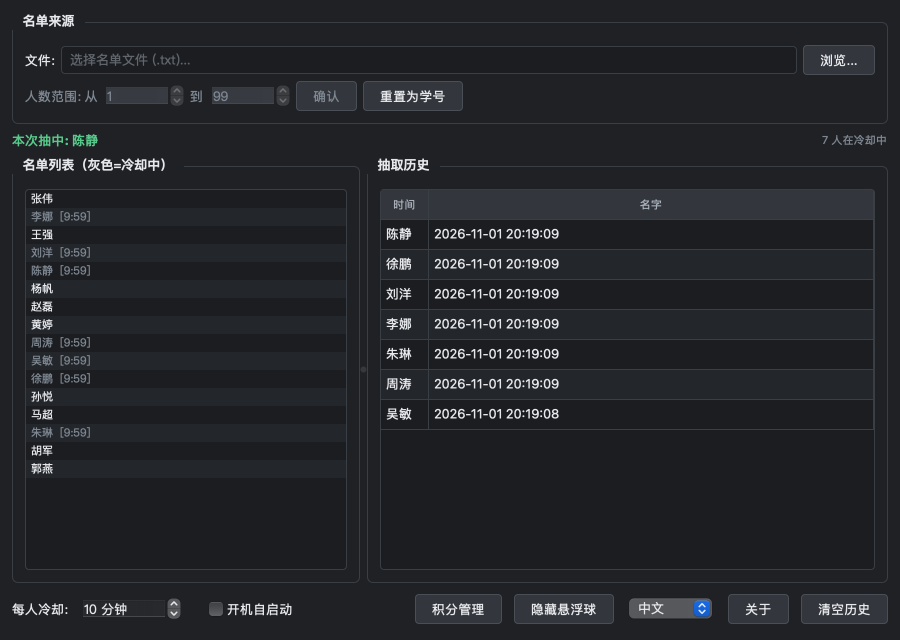
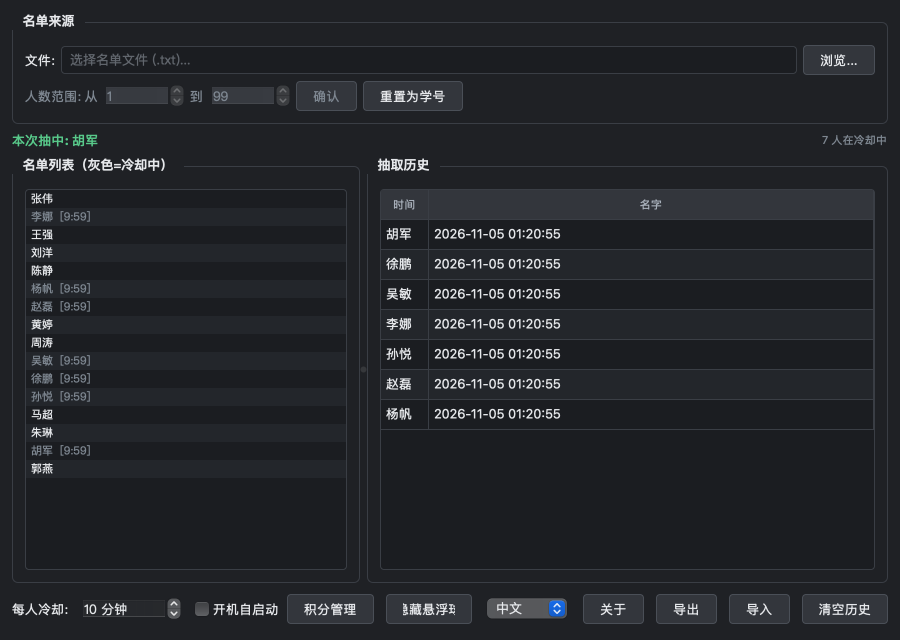
docs: export/import, moving machines, and regenerated screenshots
README（中英对称，51 个小节）
- 核心特点里把「积分防篡改」更新为签名事件链 + 七层检查
- 积分小节补上底栏「导出 / 导入」
- 新增「换电脑 / 重装系统」：旧机导出 → 新机导入 → 确认信任；
  并说明 Inno 安装包升级不经过导出导入，Data/ 原地保留

截图
- 底栏多了导出/导入按钮，四个变体（zh/en × light/dark）全部重跑
- 关于窗口、操作日志、管理面板等一并更新

校验：README 无失效链接，19 张引用图片全部存在；18 项测试通过。

diff --git a/README.md b/README.md
@@ -85,6 +85,23 @@
 
 ![结果弹窗](docs/images/draw-popup.png)
 
+### 换电脑 / 重装系统
+
+分数绑在**机器 + 用户目录**上（密钥由机器 UUID 与 `HOME` 派生），
+换机器或换 Windows 用户后，旧链在本机解不开。这时用导出/导入：
+
+```text
+旧机器：管理面板底栏「导出」→ 得到一个 JSON（组名、分数、抽取次数）
+新机器：底栏「导入」→ 选择文件 → 确认「我信任这份数据」
+```
+
+- 导出的 JSON 是**明文**，可以直接打开核对，也可以手工改；
+- 导入会先弹确认框，只有点「我信任这份数据」才生效，并写进操作日志；
+- 导入后的数据同样在签名链里，之后的记录从这条 event 开始累计。
+
+> **Inno 安装包升级不需要导出导入**：安装程序只替换 `_internal/` 与 `native/`，
+> `Data/`、`config.dat`、`points_log.dat` 原地保留，密钥不变，链照常验证通过。
+
 ### 隐私与合规
 
 **本程序不上传任何数据。** 只有两处会发起网络请求，都是只读查询：
@@ -191,7 +208,7 @@ push 后 CI 构建 → 成功后发版到 `V{版本号}`。
 | **无需退出课件** | 悬浮球强制置顶（Windows 用 `SetWindowPos(HWND_TOPMOST)`；macOS 设置 NSWindow 层级与 Space 行为），可覆盖在 PPT 之上 |
 | **不抢焦点** | 悬浮球与弹窗使用 `Qt.WindowDoesNotAcceptFocus`，不打断键盘输入与 PPT 操作 |
 | **公平抽选** | 不是 `random.choice`，而是「加权少抽优先 + 每人冷却」，长期看每人被抽次数更均衡 |
-| **积分防篡改** | AES-256-GCM 加密 + 三级自动回档，学生改文件改不动分数 |
+| **积分防篡改** | 签名事件链（Ed25519 + XChaCha20）+ 七层完整性检查，改文件/换程序/回滚都会被拦下；见「安全设计」 |
 | **常驻托盘** | 关闭主窗口/积分面板都不退出，只有托盘菜单「退出」才结束进程 |
 
 ---
@@ -212,7 +229,9 @@ push 后 CI 构建 → 成功后发版到 `V{版本号}`。
 - 支持 `Ctrl+Z` 撤销；快捷键 `1/2/3/4` 对应 `-1/+1/+2/+3`。
 - 分数以加密签名的事件链（`Data/ledger.esc`）为准，重启不丢；
   被改坏、被删掉或被换回旧文件都会自动检测并恢复。
-- 每次积分变动自动写入加密操作日志，底栏「操作日志」按钮只读查看；
+- 底栏「导出 / 导入」：把组名与分数存成可读的 JSON，换电脑后导入恢复
+  （导入需确认“我信任这份数据”）；
+- 每次积分变动、导出、导入都会写入加密操作日志，底栏「操作日志」按钮只读查看；
   日志每条同时保存中英两版，切换语言后历史记录依然可读。
 - 「彻底重置」会先弹出**选择清空范围**的对话框：组名 / 积分 / 长期公平记录 /
   抽取历史可分别勾选，确认后再二次确认，避免误伤不需要清的数据。
@@ -1151,6 +1170,26 @@ A multi-draw opens a single window where all names roll and are revealed togethe
 close it with `✕` or let it disappear after 5 seconds.
 
 ![Result popup](docs/images/draw-popup-en.png)
+
+### Moving to another machine / reinstalling
+
+Scores are bound to the **machine + user directory** (the key is derived from the machine
+UUID and `HOME`). After switching machines or Windows users, the old chain cannot be
+decrypted here. Use export / import:
+
+```text
+Old machine: "Export" in the bottom bar -> a JSON file (names, scores, draw counts)
+New machine: "Import" in the bottom bar -> pick the file -> confirm "I trust this data"
+```
+
+- The exported JSON is **plain text**: you can inspect it, and even edit it by hand.
+- Import always asks for confirmation; nothing is applied until you trust the file,
+  and the import is written to the operation log.
+- Imported data also lives in the signed chain; later records continue from that event.
+
+> **Inno installer upgrades need no export/import**: the installer only replaces
+> `_internal/` and `native/`; `Data/`, `config.dat` and `points_log.dat` stay in place,
+> the key is unchanged, and the chain verifies as usual.
 
 ### Privacy and compliance
 
